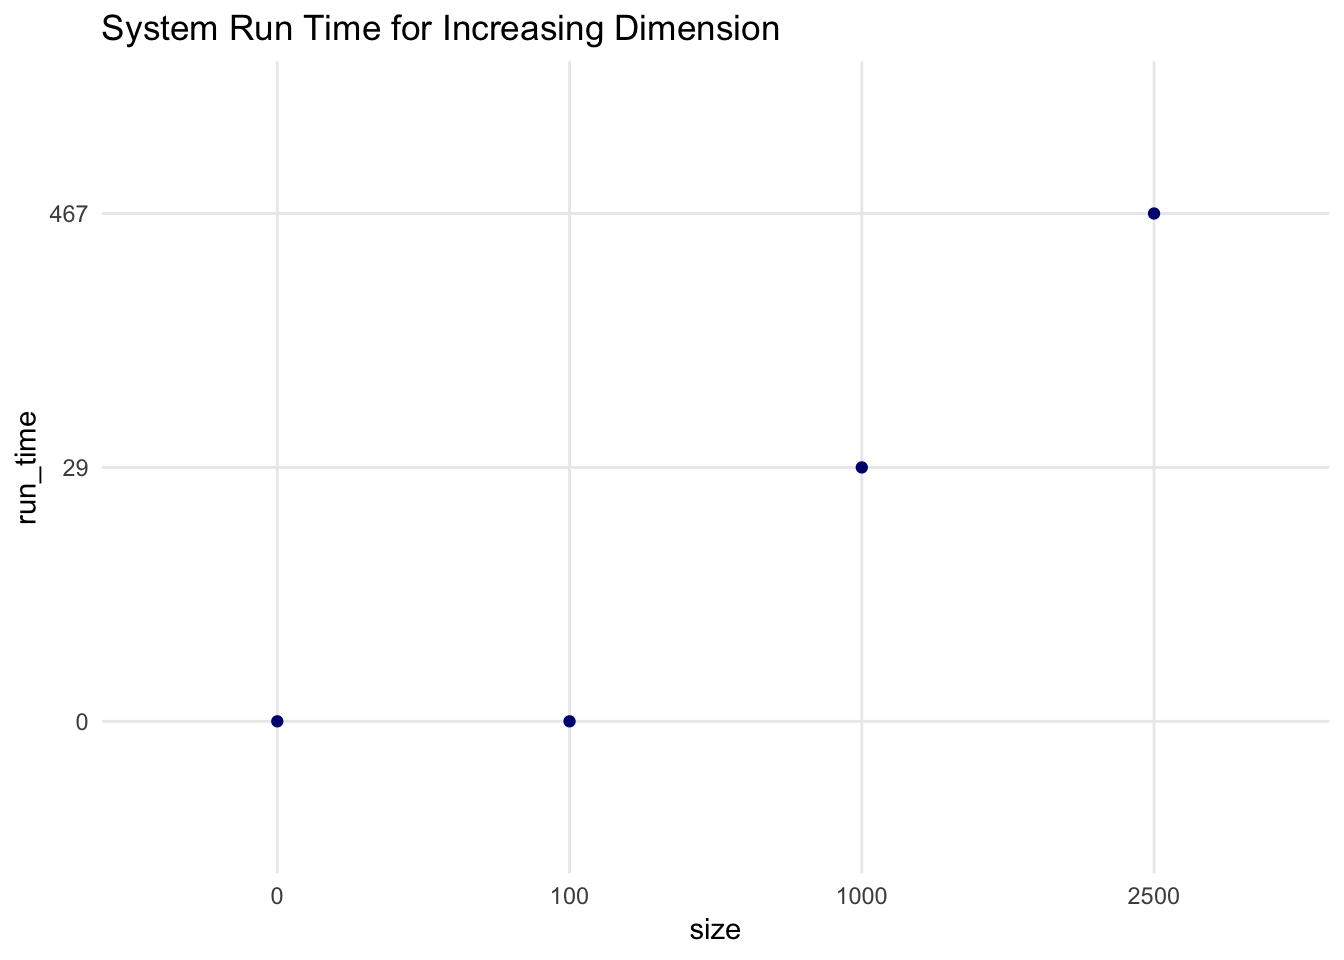
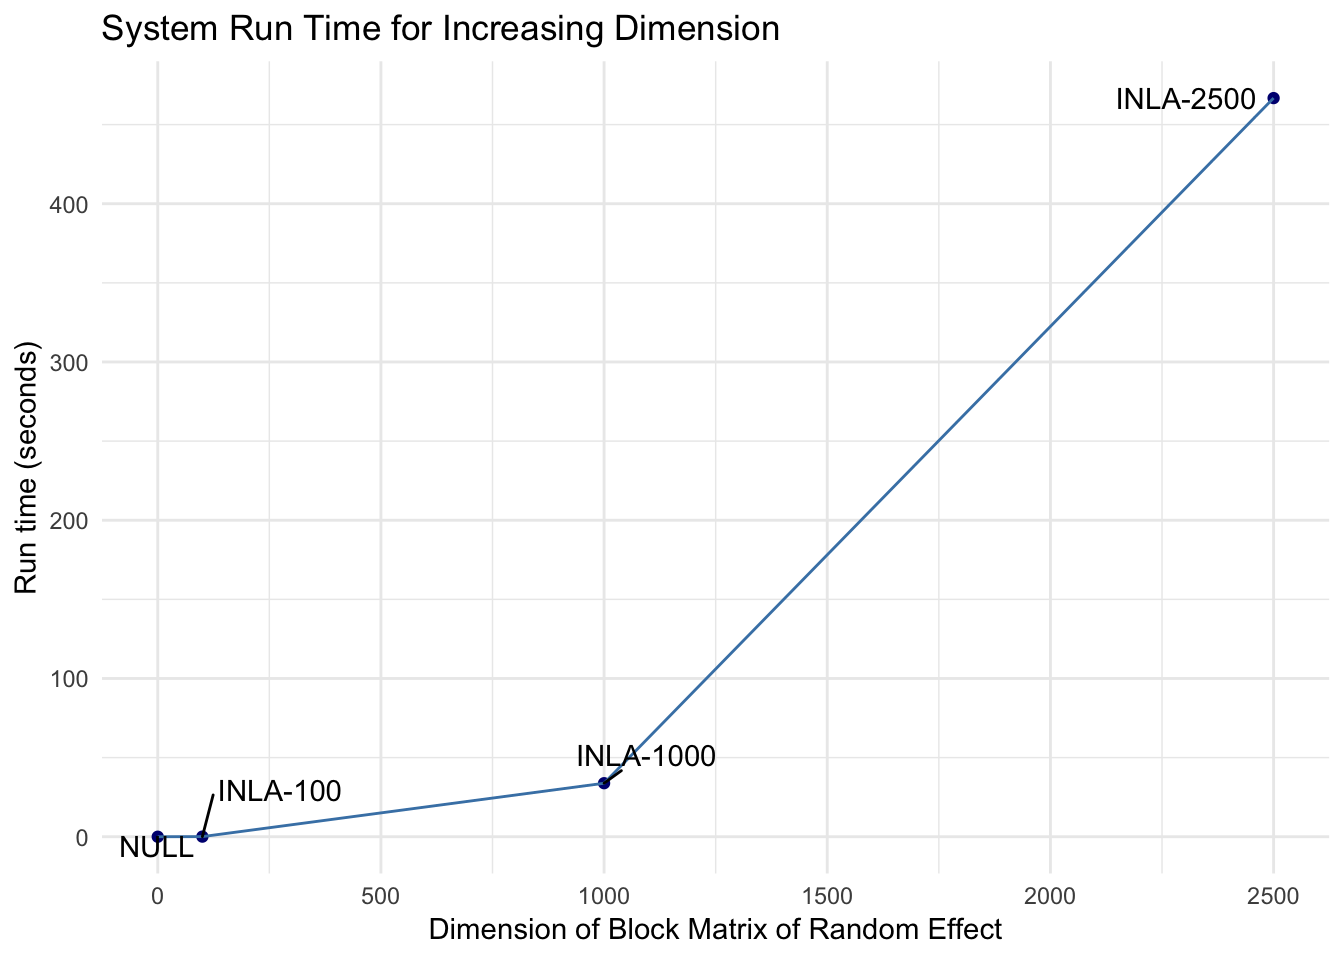
graph updates

diff --git a/Spatial_Stats.html b/Spatial_Stats.html
@@ -818,90 +818,274 @@ df_rt_graph</code></pre>
 <div id="increasing-dimension" class="section level4">
 <h4><span class="header-section-number">1.4.2.2</span> Increasing Dimension</h4>
 <p>As mentioned earlier, the first step is to re-run the INLA models in order to increase the dimension of the precision matrix. This will make the multiplactions and inversion within the  more demanding. Ideally, the computation time doess not grow exponentially. The fitting was done behind the scenes using the same code as Section 1.3.</p>
-<pre class="r"><code>inlarw1_100 &lt;- inlarw1
+<pre class="r"><code>############################
+##### GET KAMAL TO RUN ##### 
+############################
+
+# Generate some data
+n &lt;- 500
+u1 &lt;- 1:n # Covariates to be modelled smoothly, equally spaced
+u2 &lt;- seq(1, 2*n, by = 2)
+eta &lt;- cos(u1) + sin(u2) + rnorm(n,0,exp(-12)) 
+y &lt;- rnorm(n,eta,.1)
+
+df_500 &lt;- tibble(y = y,u1 = u1, u2 = u2)
+
+# Fit INLA
+inlarw1_500 &lt;- INLA::inla(y ~ 1 + 
+                          f(u1,
+                            model = &quot;rw1&quot;, 
+                            initial = 0, 
+                            fixed = TRUE, 
+                            constr = TRUE) +
+                          f(u2, model = &quot;rw1&quot;, 
+                            initial = 1, 
+                            fixed = TRUE,
+                            constr = TRUE),
+      data = df_500,
+      family = &quot;gaussian&quot;,
+      control.family = list(initial = 0,fixed = TRUE),
+      control.inla = list(strategy=&#39;gaussian&#39;,int.strategy = &quot;eb&quot;,correct = FALSE),
+      control.compute=list(config=TRUE),
+      control.predictor = list(compute=TRUE,initial = 0,fixed = TRUE),
+      control.fixed = list(prec.intercept = 1,mean.intercept = 0)
+)
+
+# Generate some data
+n &lt;- 5000
+u1 &lt;- 1:n # Covariates to be modelled smoothly, equally spaced
+u2 &lt;- seq(1, 2*n, by = 2)
+eta &lt;- cos(u1) + sin(u2) + rnorm(n,0,exp(-12)) 
+y &lt;- rnorm(n,eta,.1)
+
+df_5000 &lt;- tibble(y = y,u1 = u1, u2 = u2)
+
+# Fit INLA
+inlarw1_5000 &lt;- INLA::inla(y ~ 1 + 
+                          f(u1,
+                            model = &quot;rw1&quot;, 
+                            initial = 0, 
+                            fixed = TRUE, 
+                            constr = TRUE) +
+                          f(u2, model = &quot;rw1&quot;, 
+                            initial = 1, 
+                            fixed = TRUE,
+                            constr = TRUE),
+      data = df_5000,
+      family = &quot;gaussian&quot;,
+      control.family = list(initial = 0,fixed = TRUE),
+      control.inla = list(strategy=&#39;gaussian&#39;,int.strategy = &quot;eb&quot;,correct = FALSE),
+      control.compute=list(config=TRUE),
+      control.predictor = list(compute=TRUE,initial = 0,fixed = TRUE),
+      control.fixed = list(prec.intercept = 1,mean.intercept = 0)
+)
+
+
+# Generate some data
+n &lt;- 20000
+u1 &lt;- 1:n # Covariates to be modelled smoothly, equally spaced
+u2 &lt;- seq(1, 2*n, by = 2)
+eta &lt;- cos(u1) + sin(u2) + rnorm(n,0,exp(-12)) 
+y &lt;- rnorm(n,eta,.1)
+
+df_20000 &lt;- tibble(y = y,u1 = u1, u2 = u2)
+
+# Fit INLA
+inlarw1_20000 &lt;- INLA::inla(y ~ 1 + 
+                          f(u1,
+                            model = &quot;rw1&quot;, 
+                            initial = 0, 
+                            fixed = TRUE, 
+                            constr = TRUE) +
+                          f(u2, model = &quot;rw1&quot;, 
+                            initial = 1, 
+                            fixed = TRUE,
+                            constr = TRUE),
+      data = df_20000,
+      family = &quot;gaussian&quot;,
+      control.family = list(initial = 0,fixed = TRUE),
+      control.inla = list(strategy=&#39;gaussian&#39;,int.strategy = &quot;eb&quot;,correct = FALSE),
+      control.compute=list(config=TRUE),
+      control.predictor = list(compute=TRUE,initial = 0,fixed = TRUE),
+      control.fixed = list(prec.intercept = 1,mean.intercept = 0)
+)
+
+# Generate some data
+n &lt;- 40000
+u1 &lt;- 1:n # Covariates to be modelled smoothly, equally spaced
+u2 &lt;- seq(1, 2*n, by = 2)
+eta &lt;- cos(u1) + sin(u2) + rnorm(n,0,exp(-12)) 
+y &lt;- rnorm(n,eta,.1)
+
+df_40000 &lt;- tibble(y = y,u1 = u1, u2 = u2)
+
+# Fit INLA
+inlarw1_40000 &lt;- INLA::inla(y ~ 1 + 
+                          f(u1,
+                            model = &quot;rw1&quot;, 
+                            initial = 0, 
+                            fixed = TRUE, 
+                            constr = TRUE) +
+                          f(u2, model = &quot;rw1&quot;, 
+                            initial = 1, 
+                            fixed = TRUE,
+                            constr = TRUE),
+      data = df_40000,
+      family = &quot;gaussian&quot;,
+      control.family = list(initial = 0,fixed = TRUE),
+      control.inla = list(strategy=&#39;gaussian&#39;,int.strategy = &quot;eb&quot;,correct = FALSE),
+      control.compute=list(config=TRUE),
+      control.predictor = list(compute=TRUE,initial = 0,fixed = TRUE),
+      control.fixed = list(prec.intercept = 1,mean.intercept = 0)
+)</code></pre>
+<pre class="r"><code>############################
+##### GET KAMAL TO RUN ##### 
+############################
+
+inlarw1_100 &lt;- inlarw1
 
 # preview of the original precision matrix - INLA 100
 precision_mat100 &lt;- Matrix::forceSymmetric(inlarw1_100$misc$configs$config[[1]]$Q)
-dim(precision_mat100)</code></pre>
-<pre><code>## [1] 301 301</code></pre>
-<pre class="r"><code>precision_mat100[1:10, 1:10]</code></pre>
-<pre><code>## 10 x 10 sparse Matrix of class &quot;dsCMatrix&quot;
-##                          
-##  [1,] 2 . . . . . . . . .
-##  [2,] . 2 . . . . . . . .
-##  [3,] . . 2 . . . . . . .
-##  [4,] . . . 2 . . . . . .
-##  [5,] . . . . 2 . . . . .
-##  [6,] . . . . . 2 . . . .
-##  [7,] . . . . . . 2 . . .
-##  [8,] . . . . . . . 2 . .
-##  [9,] . . . . . . . . 2 .
-## [10,] . . . . . . . . . 2</code></pre>
-<pre class="r"><code># preview of the precision matrix - INLA 1000 
+dim(precision_mat100)
+precision_mat100[1:10, 1:10]
+
+# preview of the original precision matrix - INLA 500
+precision_mat500 &lt;- Matrix::forceSymmetric(inlarw1_500$misc$configs$config[[1]]$Q)
+dim(precision_mat500)
+precision_mat500[1:10, 1:10]
+
+# preview of the precision matrix - INLA 1000 
 precision_mat1000 &lt;- Matrix::forceSymmetric(inlarw1_1000$misc$configs$config[[1]]$Q)
-dim(precision_mat1000)</code></pre>
-<pre><code>## [1] 3001 3001</code></pre>
-<pre class="r"><code>precision_mat1000[1:10, 1:10]</code></pre>
-<pre><code>## 10 x 10 sparse Matrix of class &quot;dsCMatrix&quot;
-##                          
-##  [1,] 2 . . . . . . . . .
-##  [2,] . 2 . . . . . . . .
-##  [3,] . . 2 . . . . . . .
-##  [4,] . . . 2 . . . . . .
-##  [5,] . . . . 2 . . . . .
-##  [6,] . . . . . 2 . . . .
-##  [7,] . . . . . . 2 . . .
-##  [8,] . . . . . . . 2 . .
-##  [9,] . . . . . . . . 2 .
-## [10,] . . . . . . . . . 2</code></pre>
-<pre class="r"><code># preview of the precision matrix - INLA 1000 
+dim(precision_mat1000)
+precision_mat1000[1:10, 1:10]
+
+# preview of the precision matrix - INLA 2500 
 precision_mat2500 &lt;- Matrix::forceSymmetric(inlarw1_2500$misc$configs$config[[1]]$Q)
-dim(precision_mat2500)</code></pre>
-<pre><code>## [1] 7501 7501</code></pre>
-<pre class="r"><code>precision_mat2500[1:10, 1:10]</code></pre>
-<pre><code>## 10 x 10 sparse Matrix of class &quot;dsCMatrix&quot;
-##                          
-##  [1,] 2 . . . . . . . . .
-##  [2,] . 2 . . . . . . . .
-##  [3,] . . 2 . . . . . . .
-##  [4,] . . . 2 . . . . . .
-##  [5,] . . . . 2 . . . . .
-##  [6,] . . . . . 2 . . . .
-##  [7,] . . . . . . 2 . . .
-##  [8,] . . . . . . . 2 . .
-##  [9,] . . . . . . . . 2 .
-## [10,] . . . . . . . . . 2</code></pre>
-<pre class="r"><code># preview of the precision matrix - INLA 10000
-#precision_mat10000 &lt;- Matrix::forceSymmetric(inlarw1_10000$misc$configs$config[[1]]$Q)
-#dim(precision_mat10000)
-#precision_mat10000[1:10, 1:10]</code></pre>
+dim(precision_mat2500)
+precision_mat2500[1:10, 1:10]
+
+# preview of the precision matrix - INLA 5000 
+precision_mat5000 &lt;- Matrix::forceSymmetric(inlarw1_5000$misc$configs$config[[1]]$Q)
+dim(precision_mat5000)
+precision_mat5000[1:10, 1:10]
+
+# preview of the precision matrix - INLA 10000
+precision_mat10000 &lt;- Matrix::forceSymmetric(inlarw1_10000$misc$configs$config[[1]]$Q)
+dim(precision_mat10000)
+precision_mat10000[1:10, 1:10]
+
+# preview of the precision matrix - INLA 20000
+precision_mat20000 &lt;- Matrix::forceSymmetric(inlarw1_20000$misc$configs$config[[1]]$Q)
+dim(precision_mat20000)
+precision_mat20000[1:10, 1:10]
+
+# preview of the precision matrix - INLA 40000
+precision_mat40000 &lt;- Matrix::forceSymmetric(inlarw1_40000$misc$configs$config[[1]]$Q)
+dim(precision_mat40000)
+precision_mat40000[1:10, 1:10]</code></pre>
 <p>Now we sample each of the posteriors and plot run times like before.</p>
-<pre class="r"><code>models &lt;- c(&quot;NULL&quot;, &quot;INLA-100&quot;,&quot;INLA-1000&quot;, &quot;INLA-2500&quot;)
+<pre class="r"><code># models &lt;- c(&quot;NULL&quot;, &quot;INLA-100&quot;,&quot;INLA-500&quot;, 
+#            &quot;INLA-1000&quot;, &quot;INLA-2500&quot;, &quot;INLA-5000&quot;,
+#            &quot;INLA-10000&quot;, &quot;INLA-20000&quot;, &quot;INLA-40000&quot;)
+models &lt;- c(&quot;NULL&quot;, &quot;INLA-100&quot;, &quot;INLA-1000&quot;, &quot;INLA-2500&quot;)
 
 re &lt;- &quot;u1&quot;
 sample_size &lt;- 1000
-dim_inc_rt &lt;- c(0)
+dim_inc_rt &lt;- c(0) # NULL case 
 
-dim_inc_rt &lt;- c(sum(system.time(rePostSamp(inlarw1_100, re, sample_size))))
-dim_inc_rt &lt;- c(dim_inc_rt, sum(system.time(rePostSamp(inlarw1_1000, re, sample_size))))
-dim_inc_rt &lt;- c(dim_inc_rt, sum(system.time(rePostSamp(inlarw1_2500, re, sample_size))))
-#dim_inc_rt &lt;- c(dim_inc_rt, sum(system.time(rePostSamp(inlarw1_10000, re, sample_size))))</code></pre>
-<pre class="r"><code>df_dim_inc &lt;- as_tibble(cbind(models, 
-                              size = c(0,100,1000,2500), 
-                              run_time =round(as.numeric(c(0,dim_inc_rt))),3)
+# don&#39;t do a loop here, run time isn&#39;t smooth
+dim_inc_rt &lt;- c(sum(system.time(rePostSamp(inlarw1_100, re, sample_size)))) #2
+#dim_inc_rt &lt;- c(sum(system.time(rePostSamp(inlarw1_500, re, sample_size)))) #3
+dim_inc_rt &lt;- c(dim_inc_rt, sum(system.time(rePostSamp(inlarw1_1000, re, sample_size)))) #4
+dim_inc_rt &lt;- c(dim_inc_rt, sum(system.time(rePostSamp(inlarw1_2500, re, sample_size)))) #5
+#dim_inc_rt &lt;- c(dim_inc_rt, sum(system.time(rePostSamp(inlarw1_5000, re, sample_size)))) #6
+#dim_inc_rt &lt;- c(dim_inc_rt, sum(system.time(rePostSamp(inlarw1_10000, re, sample_size)))) #7
+#dim_inc_rt &lt;- c(dim_inc_rt, sum(system.time(rePostSamp(inlarw1_20000, re, sample_size)))) #8
+#dim_inc_rt &lt;- c(dim_inc_rt, sum(system.time(rePostSamp(inlarw1_50000, re, sample_size)))) #9</code></pre>
+<pre class="r"><code>df_dim_inc &lt;- as_tibble(cbind(as.factor(models), 
+                              size = as.numeric(c(0,100,1000,2500)),
+                              run_time =as.numeric(c(0,dim_inc_rt))
+                              )
                         )
 
+                        # c(0, 100 ,500 1000, 2500, 5000, 10000, 20000, 40000))
 dim_inc_graph &lt;- df_dim_inc %&gt;% ggplot(aes(size, run_time)) +
   geom_point(color = &quot;navy&quot;) +
-  geom_step(color = &quot;steelblue&quot;) +
+  geom_line(color = &quot;steelblue&quot;) + 
+  geom_text_repel(aes(label=models),box.padding = unit(0.45, &quot;lines&quot;)) +
   labs(title = &quot;System Run Time for Increasing Dimension&quot;,
-       xlab = &quot;Dimension of Block Matrix of Random Effect&quot;,
-       ylab = &quot;Run time (seconds)&quot;) +
+       x = &quot;Dimension of Block Matrix of Random Effect&quot;,
+       y = &quot;Run time (seconds)&quot;) +
   theme_minimal()
 
 dim_inc_graph</code></pre>
 <p><img src="Spatial_Stats_files/figure-html/Dimension%20increase%20run%20times%20P2-1.png" width="672" /></p>
+<p>This exponential scaling is  ideal. As such, we attempt to make some improvements to avoid incurring additional computational costs. They are as follows:</p>
+<ul>
+<li>Use an R package to sample from a MVN using the precision matrix - avoids inverting the high dimensional Q matrix of the INLA object</li>
+<li>Use indexing from INLA to select submatrix of interest - avoids multiplication by the transformation matrix (Amat)</li>
+</ul>
 </div>
+</div>
+</div>
+<div id="improvements" class="section level2">
+<h2><span class="header-section-number">1.5</span> Improvements</h2>
+<div id="working-with-submatricies" class="section level3">
+<h3><span class="header-section-number">1.5.1</span> Working with Submatricies</h3>
+<pre class="r"><code># Use the inlarw1_1000 object as the basis of our tests
+
+re </code></pre>
+<pre><code>## [1] &quot;u1&quot;</code></pre>
+<pre class="r"><code>x1000_index &lt;- reID(inlarw1_1000, re)
+c(min(x1000_index), max(x1000_index))</code></pre>
+<pre><code>## [1] 1001 2000</code></pre>
+<pre class="r"><code># this will be 1000x1000 submatrix
+
+x1000_Amat &lt;- createTransform(x1000_index, inlarw1_1000)
+x1000_submat &lt;- Matrix::crossprod(x1000_Amat, inlarw1_1000$misc$configs$config[[1]]$Q) %*% x1000_Amat
+# check equality 
+1000^2 == sum(x1000_submat == inlarw1_1000$misc$configs$config[[1]]$Q[x1000_index, x1000_index])</code></pre>
+<pre><code>## [1] TRUE</code></pre>
+<pre class="r"><code>### Conclusion: they are the same! </code></pre>
+<p>As a result we can avoid the cross products we previously needed.</p>
+<p> This trick does not work because <span class="math inline">\(A^T Q^{-1} A \neq (A^T Q^{-1} A)^{-1}\)</span> since <span class="math inline">\(A\)</span> is not a square matrix. Even in the case where we are working wtih the precision matrix, we have <span class="math inline">\(Q[,] = A^T Q A \Rightarrow Q[,]^{-1} \neq A^T Q^{-1} A\)</span> and therefore we won’t be sampling the same distribution. While this would be computationally advantageous, it does not have the same distribution.</p>
+</div>
+<div id="sampling-from-the-precision" class="section level3">
+<h3><span class="header-section-number">1.5.2</span> Sampling from the Precision</h3>
+<p>By using the <a href="https://cran.r-project.org/web/packages/sparseMVN/sparseMVN.pdf"></a> package in R, we can try to avoid using  function on the large precision matricies (this is always a slow step). Instead we can perform a Cholesky decomposition which takes advantage of the sparse nature of these matricies.</p>
+<pre class="r"><code>### IN PROGRESS ###
+### get matrix storage formats to agree
+
+rePostSamp_prec &lt;- function(inla_object,random_effect, sample_size = 1){
+  Amat &lt;- as.matrix(inla_object %&gt;% 
+        reID(random_effect) %&gt;%
+        createTransform(inla_object))
+  
+  # need to select the mean 
+  mean_vec &lt;- as.vector(inla_object$misc$configs$config[[1]]$mean[reID(inla_object, 
+                                                                       random_effect)])
+  # get the Cholesky of the precision matrix
+  
+  precision_mat &lt;-as(Matrix::forceSymmetric(
+    Matrix::crossprod(Amat,
+                      inla_object$misc$configs$config[[1]]$Q) 
+    %*% Amat ), # A^T Q A -&gt; the smaller precision matrix
+    &quot;dgCMatrix&quot;
+    )
+  precison_chol &lt;- precision_mat %&gt;% Matrix::Cholesky()
+  
+  if(length(mean_vec) == nrow(precision_chol)){
+   rmvn.sparse(n = sample_size,
+               mu = mean_vec, 
+               CH = precision_chol, 
+               prec = TRUE)
+   # each row of this corresponds to a sample from a dim(mu) MVN
+  }
+   else{
+   return(&quot;Error: dimension of mean and covariance are not comformable!&quot;)
+  }
+}</code></pre>
+<p>```</p>
 </div>
 </div>
 </div>
